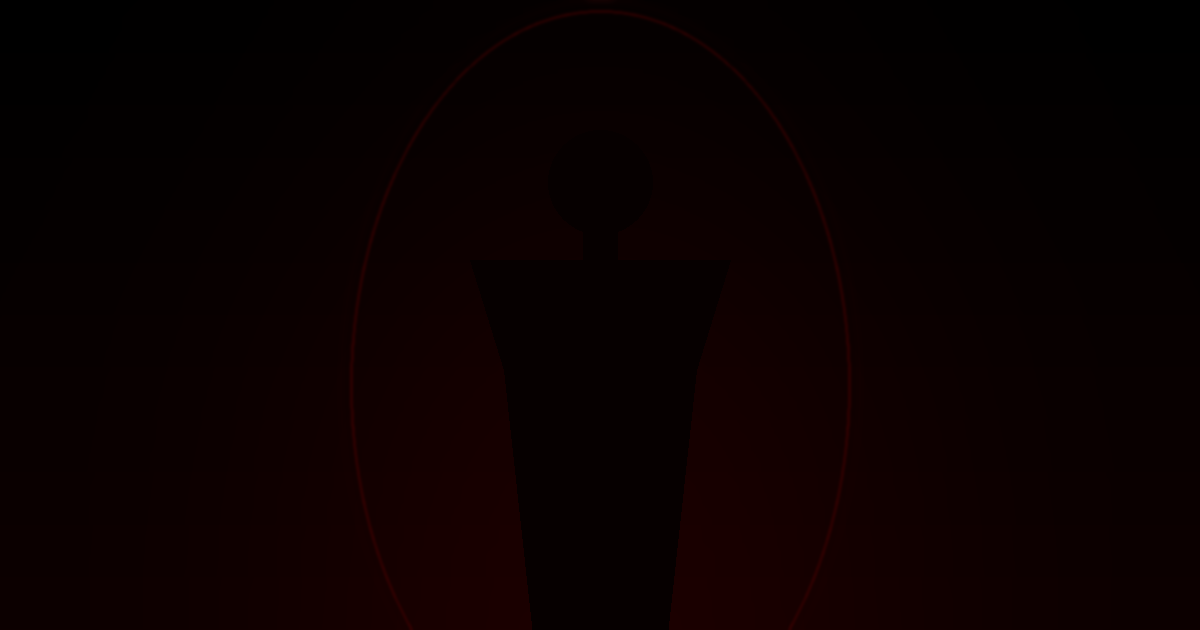
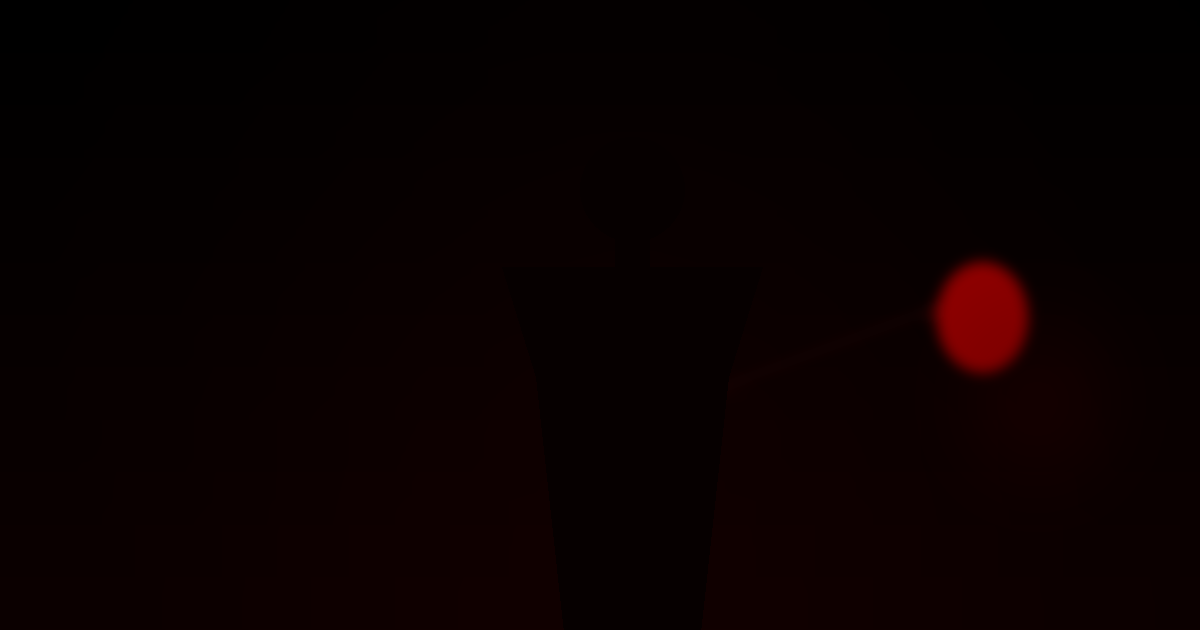
feed: RED FIELD v6 covers per-guid conflict + version-aware idempotency
- CONFLICT_MAP extended to all 43 guids (each news = own serial conflict,
  neighbouring dates differ; fallback to 'trust' removed for real slots)
- new 'memory' conflict renderer (standard lists memory as series member)
- sha256-based per-guid seed jitter (no collisions; power covers distinct)
- DESIGN_VERSION RED_FIELD_v6 + ASSET_HASH manifest .cover-manifest.json
  (standard 13.09/19.09: skip only when file exists AND hash matches)
- publisher.ensure_cover -> image_gen.ensure_asset (fixes file-exists skip
  that kept stale blue covers alive)
- proven to be unique (43 files, no hash duplicates, manifest consistent)
- old cyan covers preserved under feed/images/backup-red-field/ (gitignored)

Changed region(s): [[0.7708, 0.3921, 0.8633, 0.6032]]

diff --git a/feed/image_gen.py b/feed/image_gen.py
@@ -4,9 +4,17 @@
 # Usage:
 #   python image_gen.py              (regenerate all in feed/items.csv)
 #   python image_gen.py --guid UID   (regenerate single post)
+#
+# Version-aware idempotency (standard, decision 13.09 + 19.09.2026):
+#   DESIGN_VERSION + ASSET_HASH = sha256(CONTENT_ID:DESIGN_VERSION:seed).
+#   A PNG is skipped ONLY if the file exists AND manifest hash matches.
+#   Otherwise the asset is regenerated and the old file is moved to backup.
 import argparse
+import hashlib
+import json
 import os
 import re
+from datetime import datetime
 
 import numpy as np
 from PIL import Image, ImageDraw, ImageFilter
@@ -14,6 +22,9 @@ from PIL import Image, ImageDraw, ImageFilter
 W, H = 1200, 630
 OUT_DIR = os.path.join(os.path.dirname(__file__), 'images')
 ITEMS_CSV = os.path.join(os.path.dirname(__file__), 'items.csv')
+MANIFEST = os.path.join(OUT_DIR, '.cover-manifest.json')
+BACKUP_ROOT = os.path.join(OUT_DIR, 'backup-red-field')
+DESIGN_VERSION = 'RED_FIELD_v6'
 
 VOID = (0, 0, 0)
 DEEP_RED = (24, 0, 0)
@@ -22,17 +33,58 @@ ACTIVE_RED = (176, 0, 0)
 HOT_RED = (255, 26, 26)
 SILH = (6, 0, 0)
 
-# guid (or date-key) -> serial conflict. Each conflict = one physical idea.
+# guid -> serial conflict. Each conflict = one physical idea.
+# Every guid in feed/items.csv MUST have its own entry (fallback only as guard).
+# Neighbouring dates get different conflicts so the series never clones shots.
 CONFLICT_MAP = {
-    'slepoi-test-2026-09-23': 'trust',
+    # --- epoch 1 (04-22.09, re-issued as RED FIELD) ---
+    'fitoussi-human-preference-2026-09-04': 'choice',
+    'umg-elevenlabs-2026-09-10': 'split',
+    'voice-scams-trust-2026-09-11': 'attack',
+    'kto-proveril-golos-2026-09-12': 'trust',
+    'golos-banka-2026-09-13': 'interface',
+    'vybor-diktora-2026-09-14': 'choice',
+    'ozvuchka-video-2026-09-15': 'deficit',
+    'umg-infrastruktura-2026-09-16': 'infrastructure',
+    'golos-pult-2026-09-17': 'interface',
+    'pravovoy-sloy-golosa-2026-09-18': 'right',
+    'radio-ne-umret-2026-09-19': 'power',
+    'slepoj-test-golosa-2026-09-20': 'split',
+    'aktery-protiv-klonov-2026-09-21': 'right',
+    'open-source-golos-2026-09-22': 'deficit',
+    # --- epoch 2 (23-30.09 re-release) ---
     'slepoi-test-2026-09-23': 'trust',
     'podkast-i-radio-2026-09-24': 'attention',
     'golos-kak-povedenie-2026-09-25': 'provenance',
     'pervaya-sekunda-banka-2026-09-26': 'interface',
     'eksport-govorit-2026-09-27': 'deficit',
-    'muzej-govorit-2026-09-28': 'choice',
+    'muzej-govorit-2026-09-28': 'memory',
     'meropriyatiya-govoryat-2026-09-29': 'infrastructure',
     'itog-sentyabrya-2026-09-30': 'split',
+    # --- epoch 3 (October) ---
+    'golos-pervaya-sekunda-2026-10-01': 'attention',
+    'doverie-intonaciya-2026-10-02': 'trust',
+    'doverie-intonaciya-2026-10-03': 'trust',
+    'muzej-golos-2026-10-04': 'memory',
+    'eksport-golos-2026-10-05': 'power',
+    'ivr-uderzhanie-2026-10-06': 'interface',
+    'itog-nedeli-2026-10-07': 'split',
+    'after-red-field-2026-10-08': 'attention',
+    'podkast-i-radio-2026-10-09': 'provenance',
+    'golos-kak-povedenie-2026-10-10': 'attention',
+    'pervaya-sekunda-banka-2026-10-11': 'interface',
+    'eksport-golos-2026-10-12': 'power',
+    'muzej-golos-2026-10-13': 'memory',
+    'itog-nedeli-2026-10-14': 'attention',
+    'uderzhanie-na-linii-2026-10-15': 'interface',
+    'golos-i-cifra-2026-10-16': 'interface',
+    'dzen-i-golos-2026-10-17': 'attention',
+    'tishina-v-efire-2026-10-18': 'trust',
+    'bank-govorit-scenarij-2026-10-19': 'attention',
+    'eksport-i-akcent-2026-10-20': 'provenance',
+    'itog-nedeli-2026-10-21': 'split',
+    # --- the fixed open-source-golos slot (23.09) ---
+    'open-source-golos-2026-09-23': 'deficit',
 }
 
 
@@ -45,6 +97,57 @@ def key_of(guid: str) -> str:
 
 def conflict_of(guid: str) -> str:
     return CONFLICT_MAP.get(guid, key_of(guid))
+
+
+def asset_hash(guid: str, seed: int) -> str:
+    return hashlib.sha256(
+        (guid + ':' + DESIGN_VERSION + ':' + str(seed)).encode('utf-8')
+    ).hexdigest()
+
+
+def load_manifest():
+    if os.path.exists(MANIFEST):
+        try:
+            with open(MANIFEST, 'r', encoding='utf-8') as f:
+                return json.load(f)
+        except Exception:
+            pass
+    return {}
+
+
+def save_manifest(m):
+    os.makedirs(os.path.dirname(MANIFEST), exist_ok=True)
+    with open(MANIFEST, 'w', encoding='utf-8') as f:
+        json.dump(m, f, ensure_ascii=False, indent=0)
+
+
+def backup_old(img_path: str):
+    if not os.path.exists(img_path):
+        return
+    stamp = datetime.now().strftime('%Y%m%d-%H%M%S')
+    dest_dir = os.path.join(BACKUP_ROOT, stamp)
+    os.makedirs(dest_dir, exist_ok=True)
+    name = os.path.basename(img_path)
+    os.replace(img_path, os.path.join(dest_dir, name))
+
+
+def ensure_asset(guid: str) -> str:
+    """Version-aware asset idempotency. Returns the path of the current PNG."""
+    name = img_name_for(guid)
+    seed = int(re.sub(r'\D', '', guid) or 0)
+    out = os.path.join(OUT_DIR, name + '.png')
+    want = asset_hash(guid, seed)
+    man = load_manifest()
+    if os.path.exists(out) and man.get(name) == want:
+        return out
+    conflict = conflict_of(guid)
+    img = cover(conflict, seed=seed)
+    backup_old(out)
+    img.save(out, 'PNG')
+    man[name] = want
+    save_manifest(man)
+    print('COVER GEN ' + name + ' conflict=' + conflict)
+    return out
 
 
 class RGBA:
@@ -127,9 +230,19 @@ def red_glow_bg(img, cx, cy, rx=620, ry=420, color=ACTIVE_RED, strength=0.35):
     img.alpha_composite(g.layer)
 
 
+def r01(seed: int, salt: int) -> float:
+    """Deterministic pseudo-random in [0,1) from seed+salt (sha256, no collisions)."""
+    h = hashlib.sha256(('%d:%d' % (seed, salt)).encode('utf-8')).hexdigest()
+    return int(h[:8], 16) / float(0xffffffff)
+
+
+def jitter(seed: int, spread: int, salt: int) -> int:
+    return int((r01(seed, salt) - 0.5) * 2 * spread)
+
+
 def cover(conflict: str, seed: int = 0):
     img = base_canvas()
-    cx, cy = W / 2, 430
+    cx, cy = W / 2 + jitter(seed, 60, 1), 430 + jitter(seed, 40, 2)
 
     if conflict == 'choice':
         # several possible versions of one voice: silhouette between red fields
@@ -187,17 +300,21 @@ def cover(conflict: str, seed: int = 0):
 
     elif conflict == 'attention':
         # point where voice passes inspection: red burst at the head
-        red_glow_bg(img, cx, cy, 460, 420, DEEP_RED, 0.35)
-        for k, r in enumerate((70, 120, 180, 250)):
+        red_glow_bg(img, cx, cy, 460, 420, ACTIVE_RED, 0.5)
+        for k, r in enumerate((70, 120, 180, 250, 330)):
             g = RGBA()
             g.ellipse((cx - r, cy - 300 - r, cx + r, cy - 300 + r), fill=None,
-                      outline=(HOT_RED if k < 2 else ACTIVE_RED) + (255,), width=3 - (k // 3))
-            g.blur(5).alpha(0.6 - k * 0.12)
+                      outline=(HOT_RED if k < 3 else ACTIVE_RED) + (255,), width=4 - (k // 3))
+            g.blur(4).alpha(0.7 - k * 0.1)
             img.alpha_composite(g.layer)
+        gbg = RGBA()
+        gbg.ellipse((cx - 90, cy - 360, cx + 90, cy - 180), fill=HOT_RED + (255,))
+        gbg.blur(30).alpha(0.55)
+        img.alpha_composite(gbg.layer)
         draw_silhouette_rgba(img, cx, cy, 0.98)
         g2 = RGBA()
         g2.ellipse((cx - 34, cy - 334, cx + 34, cy - 266), fill=HOT_RED + (255,))
-        g2.blur(18).alpha(0.8)
+        g2.blur(18).alpha(0.85)
         img.alpha_composite(g2.layer)
 
     elif conflict == 'interface':
@@ -217,20 +334,25 @@ def cover(conflict: str, seed: int = 0):
 
     elif conflict == 'deficit':
         # small person, big space, something missing
-        red_glow_bg(img, cx + 320, cy + 220, 300, 260, SIGNAL_RED, 0.25)
+        red_glow_bg(img, cx + 320, cy + 220, 300, 260, ACTIVE_RED, 0.4)
         g = RGBA()
         g.ellipse((W - 220, 60, W - 60, 220), fill=ACTIVE_RED + (255,))
-        g.blur(60).alpha(0.5)
+        g2 = RGBA()
+        g2.ellipse((W - 180, 100, W - 100, 180), fill=HOT_RED + (255,))
+        g.blur(60).alpha(0.65)
         img.alpha_composite(g.layer)
+        g2.blur(18).alpha(0.75)
+        img.alpha_composite(g2.layer)
         draw_silhouette_rgba(img, cx - 260, cy - 60, 0.42, alpha=0.9)
 
     elif conflict == 'infrastructure':
         # red lines BEHIND the person, not over: person inside the system
-        red_glow_bg(img, cx, cy, 560, 460, DEEP_RED, 0.5)
+        red_glow_bg(img, cx, cy, 560, 460, ACTIVE_RED, 0.4)
         for i, yy in enumerate(range(120, H, 90)):
             g = RGBA()
             g.line([(0, yy), (W, yy)], (ACTIVE_RED if i % 2 else SIGNAL_RED) + (255,), width=4 - (i % 2))
-            g.blur(3).alpha(0.5)
+            g.line([(0, yy + 4), (W, yy + 4)], (HOT_RED if i % 2 else ACTIVE_RED) + (255,), width=2)
+            g.blur(2).alpha(0.8)
             img.alpha_composite(g.layer)
         draw_silhouette_rgba(img, cx, cy, 1.0)
 
@@ -262,14 +384,36 @@ def cover(conflict: str, seed: int = 0):
 
     elif conflict == 'provenance':
         # the person and his copy: two layers, source ahead
-        red_glow_bg(img, cx, cy, 520, 440, DEEP_RED, 0.5)
+        red_glow_bg(img, cx, cy, 520, 440, ACTIVE_RED, 0.3)
         draw_silhouette_rgba(img, cx + 190, cy + 60, 1.0, alpha=0.35)
         draw_silhouette_rgba(img, cx - 40, cy - 20, 0.9, alpha=0.8)
         g = RGBA()
-        g.line([(cx - 250, cy + 380), (cx + 60, cy + 380)], ACTIVE_RED + (255,), width=3)
-        g.alpha(0.7)
+        g.line([(cx - 250, cy + 40), (cx + 60, cy + 40)], ACTIVE_RED + (255,), width=3)
+        g.blur(4).alpha(0.8)
         img.alpha_composite(g.layer)
+        g2 = RGBA()
+        g2.ellipse((cx + 100, cy + 0, cx + 260, cy + 120), fill=SIGNAL_RED + (255,))
+        g2.blur(40).alpha(0.6)
+        img.alpha_composite(g2.layer)
         draw_silhouette_rgba(img, cx - 200, cy + 10, 1.0)
+
+    elif conflict == 'memory':
+        # museum / memory: layered traces of former voices fading backwards
+        red_glow_bg(img, cx, cy, 560, 450, ACTIVE_RED, 0.45)
+        for i, off in enumerate((-340, -220, -100)):
+            g = RGBA()
+            x = W / 2 + off
+            g.ellipse((x - 300, 0, x + 300, H), fill=SIGNAL_RED + (255,))
+            g.ellipse((x - 150, 60, x + 150, H - 60), fill=(HOT_RED if i == 2 else ACTIVE_RED) + (255,))
+            g.blur(70).alpha(0.22 + i * 0.1)
+            img.alpha_composite(g.layer)
+        draw_silhouette_rgba(img, cx + 140, cy + 40, 0.8, alpha=0.35)
+        draw_silhouette_rgba(img, cx + 40, cy + 15, 0.9, alpha=0.55)
+        draw_silhouette_rgba(img, cx - 60, cy, 0.95, alpha=0.8)
+        g = RGBA()
+        g.line([(W / 2 - 380, cy + 330), (W / 2 + 380, cy + 330)], ACTIVE_RED + (255,), width=3)
+        g.blur(4).alpha(0.5)
+        img.alpha_composite(g.layer)
 
     else:
         red_glow_bg(img, cx, cy, 480, 400, ACTIVE_RED, 0.2)
@@ -315,12 +459,10 @@ def main():
     else:
         targets = guids_from_csv()
     for g in targets:
-        name = img_name_for(g)
-        seed = int(re.sub(r'\D', '', g) or 0)
-        img = cover(conflict_of(g), seed=seed)
-        out = os.path.join(OUT_DIR, name + '.png')
-        img.save(out, 'PNG')
-        print('COVER ' + name + ' conflict=' + conflict_of(g))
+        try:
+            ensure_asset(g)
+        except Exception as e:
+            print('COVER_ERR ' + g + ' :: ' + str(e))
 
 
 if __name__ == '__main__':

diff --git a/publisher.py b/publisher.py
@@ -206,19 +206,20 @@ def trunc_at(s: str, mx: int) -> str:
 
 
 def ensure_cover(guid: str, img_name: str, img_path: str):
-    if os.path.exists(img_path):
-        return
+    """Version-aware idempotency (standards/red-field-visual.md): a PNG is kept
+    only when its ASSET_HASH matches DESIGN_VERSION; otherwise regenerate."""
     try:
         import sys
         gen_dir = FEED
         if gen_dir not in sys.path:
             sys.path.insert(0, gen_dir)
         import image_gen
-        img = image_gen.cover(image_gen.conflict_of(guid))
-        img.save(img_path, 'PNG')
-        olog('COVER_GEN ' + img_name + ' conflict=' + image_gen.conflict_of(guid))
+        path = image_gen.ensure_asset(guid)
+        olog('COVER_ENSURED ' + img_name + ' conflict=' + image_gen.conflict_of(guid))
+        return path
     except Exception as e:
         olog('COVER_GEN_ERR ' + img_name + ' :: ' + str(e))
+        return img_path
 
 
 def tg_chat(env):
@@ -247,7 +248,7 @@ def publish_one(guid: str, item: dict, env: dict, chat: str):
     link = item['src']
     img_path = os.path.join(IMG_DIR, item['img'] + '.png')
 
-    ensure_cover(item['guid'], item['img'], img_path)
+    img_path = ensure_cover(item['guid'], item['img'], img_path)
 
     footer = '\n\nИсточник: ' + link
     max_body = 1024 - len(title) - len(footer)
